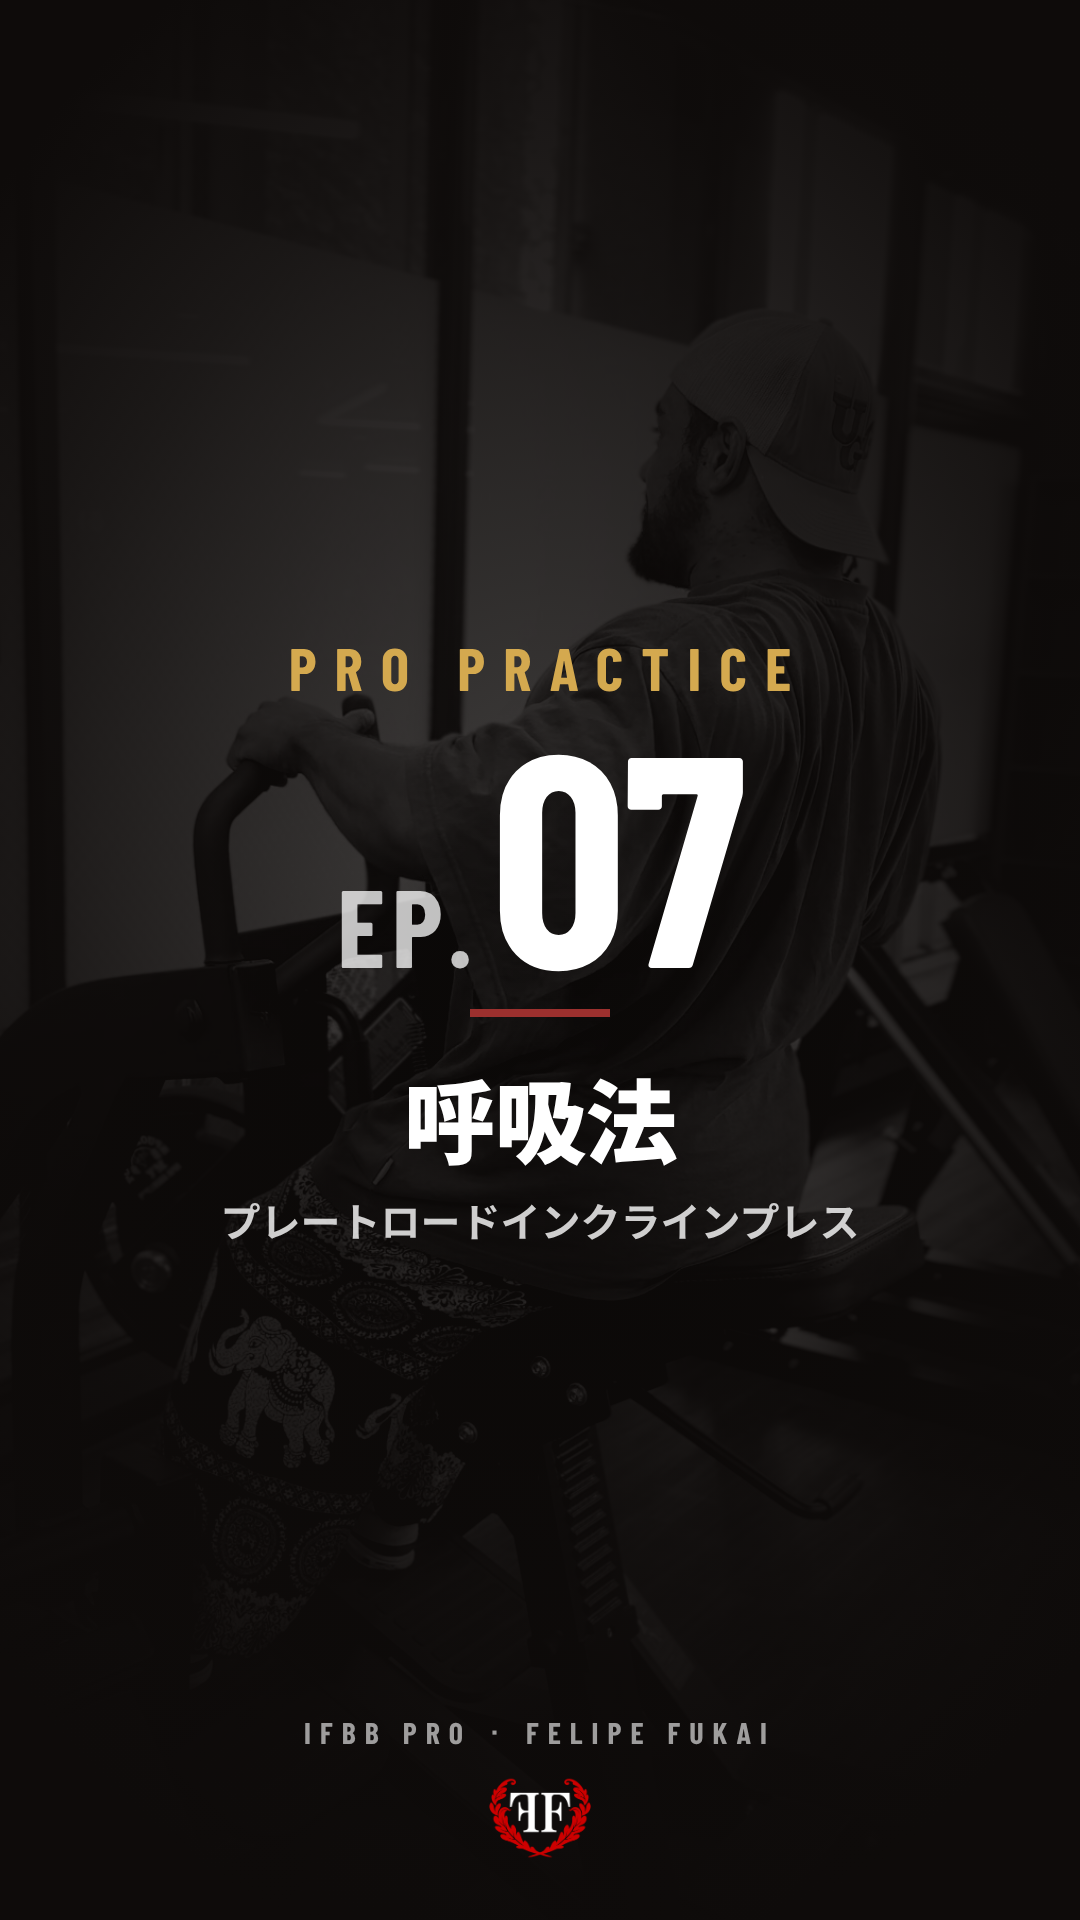
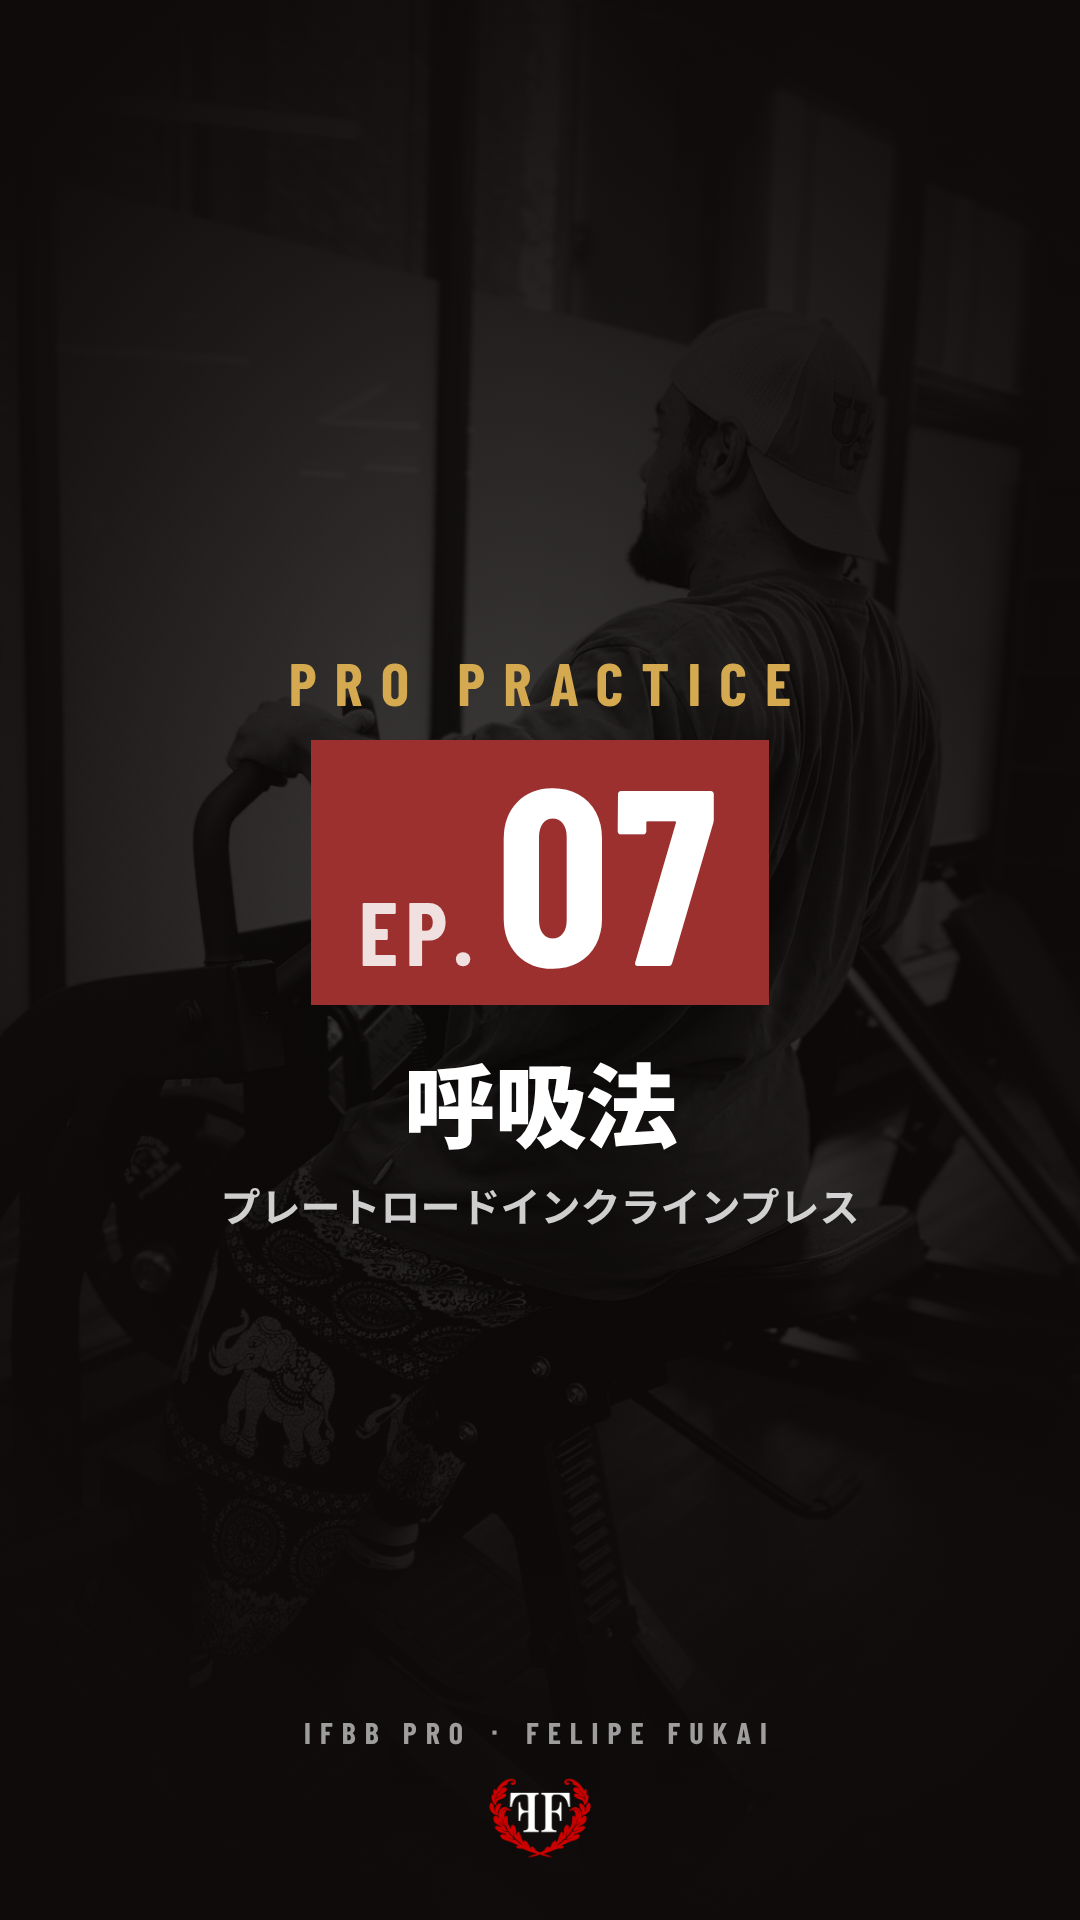
PRO PRACTICE covers: episode number in a red block (#55)
* Add UPPER DAY YouTube thumbnails (part 1, 2) and the series thumbnail template

Claude-Session: https://claude.ai/code/session_01HRty6kL8VRnpLHHHzSF3iS

* UPPER DAY thumbnails: reframe to keep the face visible and hide the burned-in caption

Claude-Session: https://claude.ai/code/session_01HRty6kL8VRnpLHHHzSF3iS

* UPPER DAY thumbnails v2: loud yellow/red creator style, distinct from the community look

Claude-Session: https://claude.ai/code/session_01HRty6kL8VRnpLHHHzSF3iS

* UPPER DAY thumbnails v3: competition roar photo plus gym face chip

Claude-Session: https://claude.ai/code/session_01HRty6kL8VRnpLHHHzSF3iS

* UPPER DAY thumbnails: soften hook to Felipe's voice

Claude-Session: https://claude.ai/code/session_01HRty6kL8VRnpLHHHzSF3iS

* UPPER DAY thumbnails: keep the hook line on one row

Claude-Session: https://claude.ai/code/session_01HRty6kL8VRnpLHHHzSF3iS

* UPPER DAY thumbnails: hook label on one line

Claude-Session: https://claude.ai/code/session_01HRty6kL8VRnpLHHHzSF3iS

* UPPER DAY thumbnails on the brand guide: FF black base, white type, laurel red as the single accent, gym press photo; add visual identity PDF

Claude-Session: https://claude.ai/code/session_01HRty6kL8VRnpLHHHzSF3iS

* UPPER DAY thumbnail: three promise-led headline variants on the brand template

Claude-Session: https://claude.ai/code/session_01HRty6kL8VRnpLHHHzSF3iS

* Add post-live story images (thanks + next live 11/23) and story template
[…]

Changed region(s): [[0.2139, 0.3125, 0.7944, 0.6562]]

diff --git a/assets/ig/pro-practice/cover-template.html b/assets/ig/pro-practice/cover-template.html
@@ -8,9 +8,9 @@ body{font-family:"NS",sans-serif;color:#fff;position:relative}
 .fade{position:absolute;inset:0;background:radial-gradient(ellipse 70% 55% at 50% 48%,rgba(14,11,10,0) 0%,rgba(14,11,10,.75) 70%,#0E0B0A 100%)}
 .wrap{position:absolute;left:72px;right:72px;top:0;bottom:0;display:flex;flex-direction:column;align-items:center;justify-content:center;text-align:center;padding-bottom:40px}
 .lbl{font-family:"BC",sans-serif;font-size:60px;letter-spacing:.3em;color:#D4A94F;margin-left:.3em}
-.ep{font-family:"BC",sans-serif;font-size:300px;line-height:.9;letter-spacing:-.01em;color:#fff;margin:10px 0 26px}
-.ep small{font-size:110px;letter-spacing:.06em;margin-right:12px;color:rgba(255,255,255,.75)}
-.bar{width:140px;height:8px;background:#9C302E;margin:0 0 44px}
+.ep{font-family:"BC",sans-serif;font-size:250px;line-height:.9;letter-spacing:.02em;color:#fff;margin:22px 0 40px;background:#9C302E;padding:14px 48px 26px;display:inline-flex;align-items:baseline}
+.ep small{font-size:90px;letter-spacing:.08em;margin-right:16px;color:rgba(255,255,255,.85)}
+.bar{display:none}
 .name{font-size:92px;font-weight:900;line-height:1.22;letter-spacing:-.01em}
 .name.long{font-size:80px}
 .sub{font-size:40px;font-weight:700;color:rgba(255,255,255,.8);margin-top:18px}
